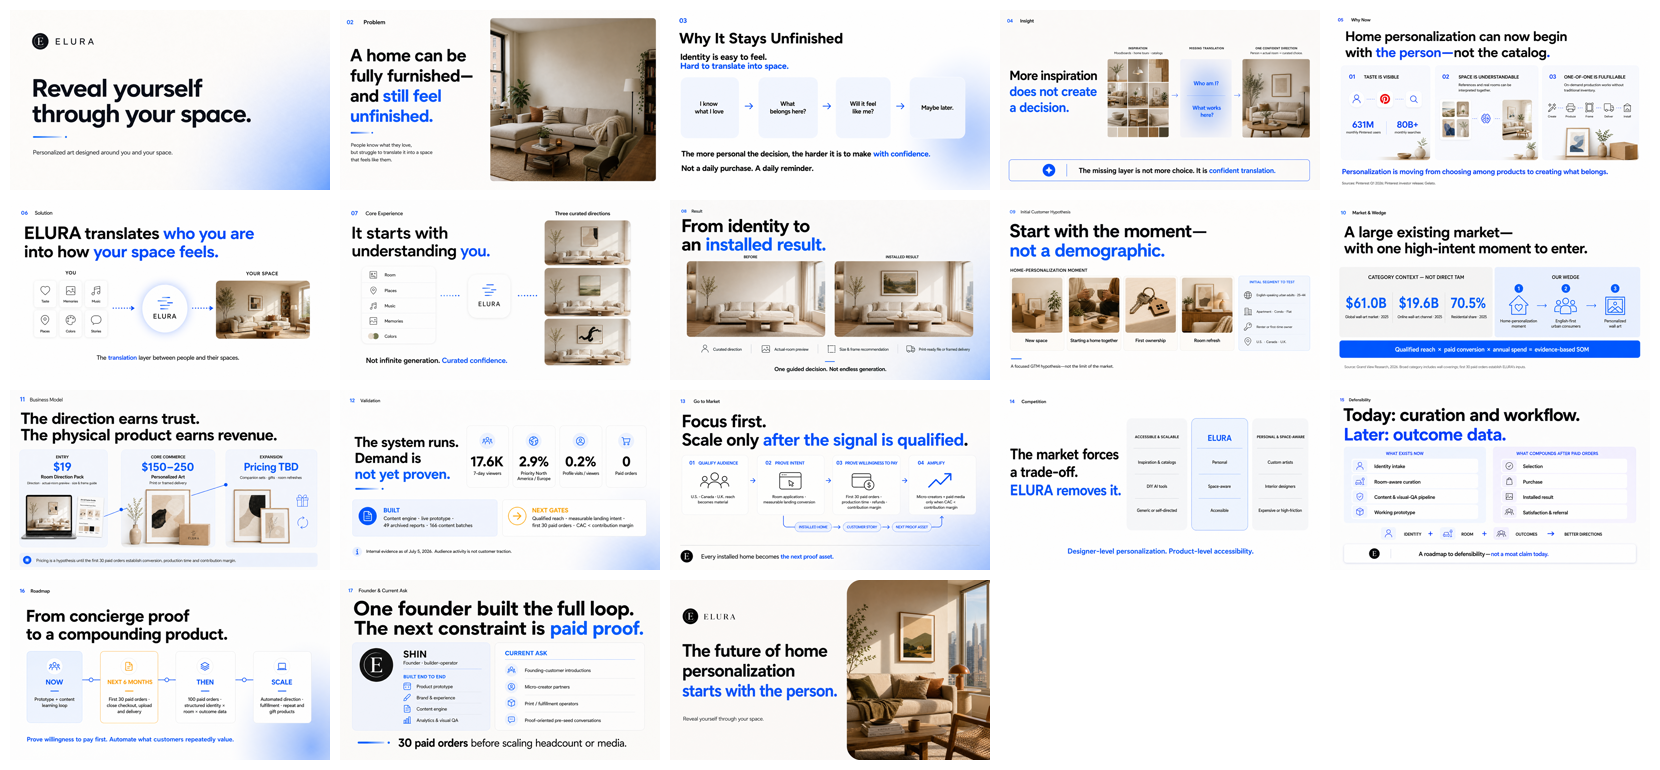
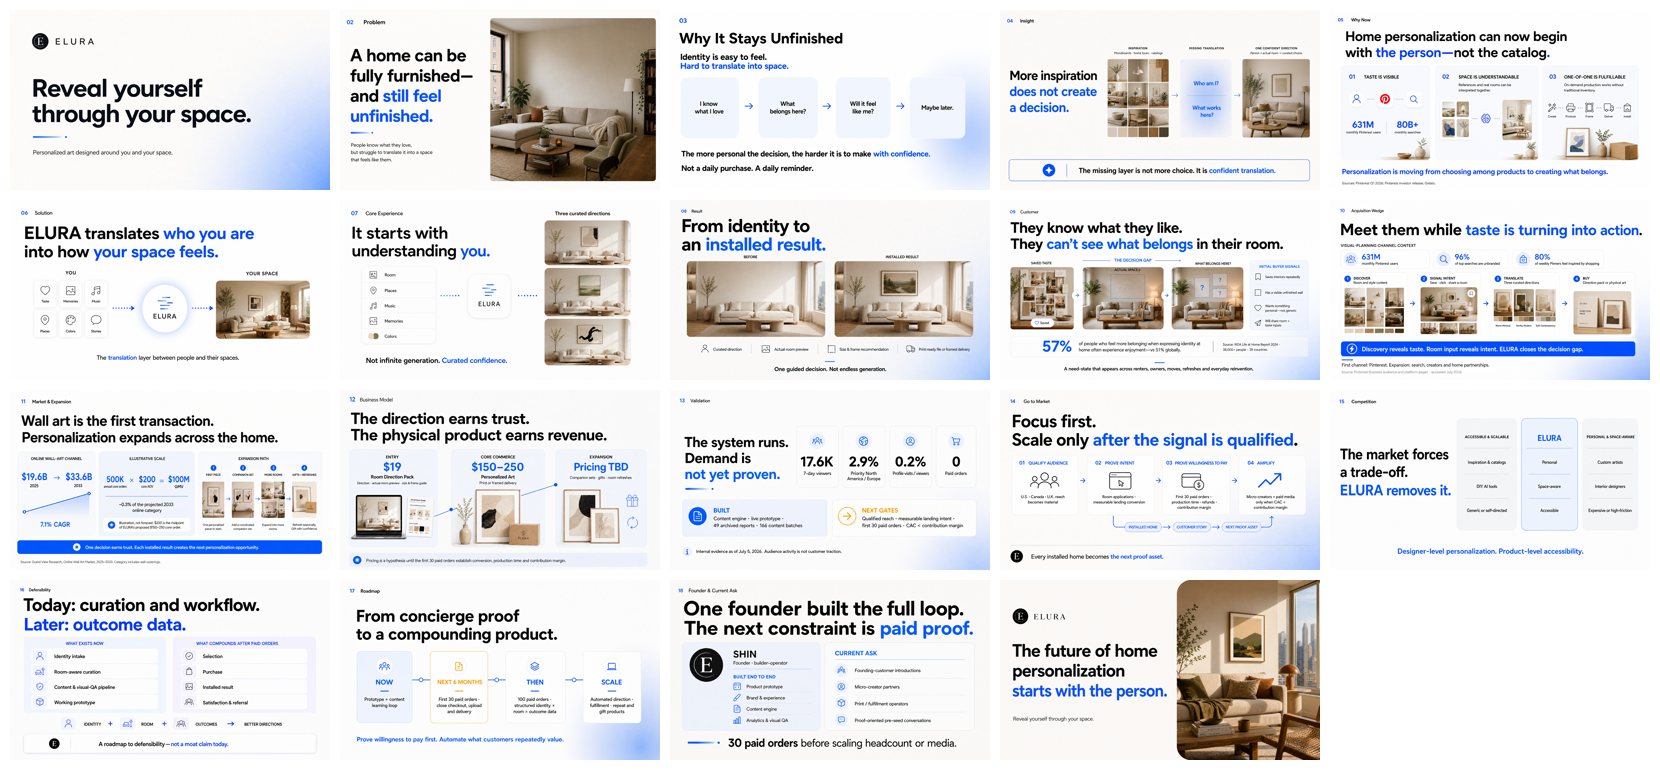
Replace ELURA customer and market narrative

Changed region(s): [[0.0, 0.2494, 1.0, 0.9974]]

diff --git a/elura_pitchdeck/pitchdeck.js b/elura_pitchdeck/pitchdeck.js
@@ -7,16 +7,17 @@ const slides = [
   ["06-solution.png", "Solution", "ELURA translates who you are into how your space feels."],
   ["07-core-experience.png", "Core Experience", "It starts with understanding you."],
   ["08-result.png", "Result", "From identity to an installed result."],
-  ["09-initial-customer-hypothesis.png", "Initial Customer Hypothesis", "Start with the moment, not a demographic."],
-  ["10-market-and-wedge.png", "Market & Wedge", "A large existing market with one high-intent moment to enter."],
-  ["11-business-model.png", "Business Model", "The direction earns trust. The physical product earns revenue."],
-  ["12-validation.png", "Validation", "The system runs. Demand is not yet proven."],
-  ["13-go-to-market.png", "Go to Market", "Focus first. Scale only after the signal is qualified."],
-  ["14-competition.png", "Competition", "The market forces a trade-off. ELURA removes it."],
-  ["15-defensibility.png", "Defensibility", "Today: curation and workflow. Later: outcome data."],
-  ["16-roadmap.png", "Roadmap", "From concierge proof to a compounding product."],
-  ["17-founder-current-ask.png", "Founder & Current Ask", "One founder built the full loop. The next constraint is paid proof."],
-  ["18-closing.png", "Closing", "The future of home personalization starts with the person."]
+  ["09-customer.png", "Customer", "They know what they like. They cannot see what belongs in their room."],
+  ["10-acquisition-wedge.png", "Acquisition Wedge", "Meet them while taste is turning into action."],
+  ["11-market-expansion.png", "Market & Expansion", "Wall art is the first transaction. Personalization expands across the home."],
+  ["12-business-model.png", "Business Model", "The direction earns trust. The physical product earns revenue."],
+  ["13-validation.png", "Validation", "The system runs. Demand is not yet proven."],
+  ["14-go-to-market.png", "Go to Market", "Focus first. Scale only after the signal is qualified."],
+  ["15-competition.png", "Competition", "The market forces a trade-off. ELURA removes it."],
+  ["16-defensibility.png", "Defensibility", "Today: curation and workflow. Later: outcome data."],
+  ["17-roadmap.png", "Roadmap", "From concierge proof to a compounding product."],
+  ["18-founder-current-ask.png", "Founder & Current Ask", "One founder built the full loop. The next constraint is paid proof."],
+  ["19-closing.png", "Closing", "The future of home personalization starts with the person."]
 ].map(([file, title, alt], index) => ({
   index,
   file: `final-16x9/${file}`,

diff --git a/elura_pitchdeck/index.html b/elura_pitchdeck/index.html
@@ -24,7 +24,7 @@
     </a>
 
     <div class="chrome__meta">
-      <span class="counter" id="counter" aria-live="polite">01 / 18</span>
+      <span class="counter" id="counter" aria-live="polite">01 / 19</span>
       <span class="slide-title" id="slide-title">Cover</span>
     </div>
 
@@ -62,7 +62,7 @@
     <div class="overview__header">
       <div>
         <p class="eyebrow">ELURA / Investor deck</p>
-        <h1 id="overview-title">18 slides</h1>
+        <h1 id="overview-title">19 slides</h1>
       </div>
       <button class="icon-button icon-button--light" id="overview-close" type="button" aria-label="Close overview">
         <svg viewBox="0 0 24 24" aria-hidden="true"><path d="m5 5 14 14M19 5 5 19"/></svg>

diff --git a/elura_pitchdeck/pitchdeck.css b/elura_pitchdeck/pitchdeck.css
@@ -249,7 +249,7 @@ kbd {
 
 .progress span {
   display: block;
-  width: calc(100% / 18);
+  width: calc(100% / 19);
   height: 100%;
   background: var(--blue);
   transform-origin: left;

diff --git a/elura_pitchdeck/final-16x9/DECK_BRIEF.md b/elura_pitchdeck/final-16x9/DECK_BRIEF.md
@@ -1,10 +1,10 @@
-# ELURA Pitch Deck V2 — final 16:9 image deck
+# ELURA Pitch Deck V3 — final 16:9 image deck
 
 ## Direction
 
 - Audience: pre-seed / seed investors and early partners
 - Language: English
-- Format: 18 individual 16:9 PNG slides
+- Format: 19 individual 16:9 PNG slides
 - Visual system: Toss-like hierarchy and Airbnb-like warmth
 - Truth standard: pre-revenue, hypothesis-first, no invented SAM/SOM or traction
 
@@ -52,33 +52,49 @@ Not infinite generation. Curated confidence.
 
 Curated direction · actual-room preview · size and frame recommendation · print-ready file or framed delivery.
 
-### 09 — Initial customer hypothesis
+### 09 — Customer
 
-**Start with the moment—not a demographic.**
+**They know what they like. They can’t see what belongs in their room.**
 
-Trigger moments: new space · starting a home together · first ownership · room refresh.
+The initial customer is defined by a decision state rather than age, gender or a single life event:
 
-Initial segment to test: English-speaking urban adults, 25–44, apartment / condo / flat, renter or first-time owner, U.S. / Canada / U.K.
+- saves interiors repeatedly
+- has a visible unfinished wall
+- wants something personal rather than generic
+- is willing to share room and taste inputs
 
-Bottom: **A focused GTM hypothesis—not the limit of the market.**
+The need can appear across renters, owners, moves, refreshes and everyday reinvention.
 
-### 10 — Market and wedge
+Evidence context: `57%` of people who feel more belonging when expressing identity at home often experience enjoyment, versus `51%` globally. IKEA Life at Home Report 2024, 38,000+ people across 39 countries.
 
-**A large existing market—with one high-intent moment to enter.**
+### 10 — Acquisition wedge
 
-Category context, not direct TAM:
+**Meet them while taste is turning into action.**
 
-- `$61.0B` global wall-art market, 2025
-- `$19.6B` online wall-art channel, 2025
-- `70.5%` residential share, 2025
+Pinterest channel context:
 
-Wedge: people personalizing a new or newly refreshed home.
+- `631M` monthly users
+- `96%` of top searches are unbranded
+- `80%` of weekly Pinners feel inspired by shopping
 
-Bottom: **Qualified reach × paid conversion × annual spend = evidence-based SOM.**
+Flow: room and style content → save, click or share a room → three curated directions → direction pack or physical art.
 
-Footnote: broad category includes wall coverings; first 30 paid orders establish the inputs.
+Bottom: **Discovery reveals taste. Room input reveals intent. ELURA closes the decision gap.**
 
-### 11 — Business model
+Pinterest is the first channel; search, creators and home partnerships are expansion channels.
+
+### 11 — Market and expansion
+
+**Wall art is the first transaction. Personalization expands across the home.**
+
+- Online wall-art channel: `$19.6B` in 2025 → `$33.6B` in 2033, `7.1%` CAGR
+- Illustrative venture-scale math: `500K annual core orders × $200 AOV = $100M GMV`
+- `$100M` equals approximately `0.3%` of the projected 2033 online category
+- Expansion path: first piece → companion set → more rooms → gifts and refreshes
+
+The scale equation is an illustration, not a forecast. The `$200` AOV is the midpoint of ELURA's proposed `$150–250` core order.
+
+### 12 — Business model
 
 **The direction earns trust. The physical product earns revenue.**
 
@@ -88,7 +104,7 @@ Footnote: broad category includes wall coverings; first 30 paid orders establish
 
 Bottom: **Pricing is a hypothesis until the first 30 paid orders.**
 
-### 12 — Validation
+### 13 — Validation
 
 **The system runs. Demand is not yet proven.**
 
@@ -101,7 +117,7 @@ Built: content engine · live product prototype · 49 archived reports · 166 co
 
 Next gates: qualified reach · landing intent · 30 paid orders · CAC < contribution margin.
 
-### 13 — Go to market
+### 14 — Go to market
 
 **Focus first. Scale only after the signal is qualified.**
 
@@ -112,13 +128,13 @@ Next gates: qualified reach · landing intent · 30 paid orders · CAC < contrib
 
 Bottom: **Every installed home becomes the next proof asset.**
 
-### 14 — Competition
+### 15 — Competition
 
 **The market forces a trade-off. ELURA removes it.**
 
 Designer-level personalization. Product-level accessibility.
 
-### 15 — Defensibility
+### 16 — Defensibility
 
 **Today: curation and workflow. Later: outcome data.**
 
@@ -128,13 +144,13 @@ What compounds after paid orders: selection · purchase · installed result · s
 
 Bottom: **A roadmap to defensibility—not a moat claim today.**
 
-### 16 — Roadmap
+### 17 — Roadmap
 
 **From concierge proof to a compounding product.**
 
 Now → first 30 paid orders → 100 paid orders and structured outcomes → automation and repeat products.
 
-### 17 — Founder and current ask
+### 18 — Founder and current ask
 
 **One founder built the full loop. The next constraint is paid proof.**
 
@@ -146,15 +162,15 @@ Current ask: founding-customer introductions · micro-creator partners · print 
 
 Bottom: **30 paid orders before scaling headcount or media.**
 
-### 18 — Closing
+### 19 — Closing
 
 **The future of home personalization starts with the person.**
 
 ## Key sources
 
-- Grand View Research wall-art market: https://www.grandviewresearch.com/industry-analysis/wall-art-market-report
 - Grand View Research online segment: https://www.grandviewresearch.com/horizon/statistics/wall-art-market/sales-channel/online/global
-- Pinterest investor release: https://investor.pinterestinc.com/news-and-events/press-releases/press-releases-details/2026/Pinterest-Announces-1-Billion-Strategic-Investment-from-Elliott-and-2-Billion-of-Near-Term-Share-Repurchases/default.aspx
+- IKEA Life at Home Report 2024: https://lifeathome.ikea.com/
+- Pinterest Business audience: https://business.pinterest.com/en-gb/audience/
+- Pinterest platform behavior: https://business.pinterest.com/en-gb/how-pinterest-works/
 - Internal audience report: `/Users/shin/elura/docs/art-service/reports/2026-07-05.html`
 - Internal product status: `/Users/shin/elura/CURRENT_STATUS.md`
-

diff --git a/elura_pitchdeck/AUDIT_V2.md b/elura_pitchdeck/AUDIT_V2.md
@@ -1,5 +1,17 @@
 # ELURA Pitch Deck V2 — full audit
 
+## V3 revision — July 13, 2026
+
+The first V2 correction overfit the customer to home-personalization trigger events, especially moving. It also made the market slide defensive: accurate category disclaimers replaced an actual commercial argument.
+
+V3 replaces slides 9–10 with three pages:
+
+- **Customer:** a behavior-defined decision gap—saved taste plus an unresolved real room—across renters, owners, moves, refreshes and everyday reinvention.
+- **Acquisition wedge:** a measurable content-to-room-input-to-purchase journey, supported by current Pinterest planning and shopping behavior.
+- **Market and expansion:** the relevant online wall-art channel, explicit illustrative `$100M GMV` math, and a repeat path from one piece to more rooms, sets, gifts and refreshes.
+
+This revision removes the unsupported age/geography persona and the broad `$61B` headline from the commercial argument.
+
 Updated after reviewing the shared ChatGPT critique and rechecking the deck against current workspace evidence.
 
 ## Executive assessment
@@ -162,4 +174,3 @@ These remain consistent with the corrected commercial logic. Insight and Result 
 - Internal audience evidence: `docs/art-service/reports/2026-07-05.html`
 - Internal product status: `CURRENT_STATUS.md`
 - Internal pricing strategy: `biz/strategy/elura_payment_conversion_strategy.md`
-

diff --git a/elura_pitchdeck/final-16x9/README.md b/elura_pitchdeck/final-16x9/README.md
@@ -1,4 +1,4 @@
-# ELURA Pitch Deck V2 — 18 slides
+# ELURA Pitch Deck V3 — 19 slides
 
 ![ELURA Pitch Deck V2 contact sheet](/Users/shin/elura/biz/pitchdeck/final-16x9/contact-sheet.png)
 
@@ -12,16 +12,17 @@
 6. Solution
 7. Core Experience
 8. Result
-9. Initial Customer Hypothesis
-10. Market & Wedge
-11. Business Model
-12. Validation
-13. Go to Market
-14. Competition
-15. Defensibility
-16. Roadmap
-17. Founder & Current Ask
-18. Closing
+9. Customer
+10. Acquisition Wedge
+11. Market & Expansion
+12. Business Model
+13. Validation
+14. Go to Market
+15. Competition
+16. Defensibility
+17. Roadmap
+18. Founder & Current Ask
+19. Closing
 
 All slides are `1672 × 941 px`, exact 16:9.
 

diff --git a/elura_pitchdeck/GITHUB_PAGES.md b/elura_pitchdeck/GITHUB_PAGES.md
@@ -1,6 +1,6 @@
 # ELURA Pitch Deck — GitHub Pages
 
-Static presentation viewer for the 18-slide ELURA image deck.
+Static presentation viewer for the 19-slide ELURA image deck.
 
 ## Published path
 
